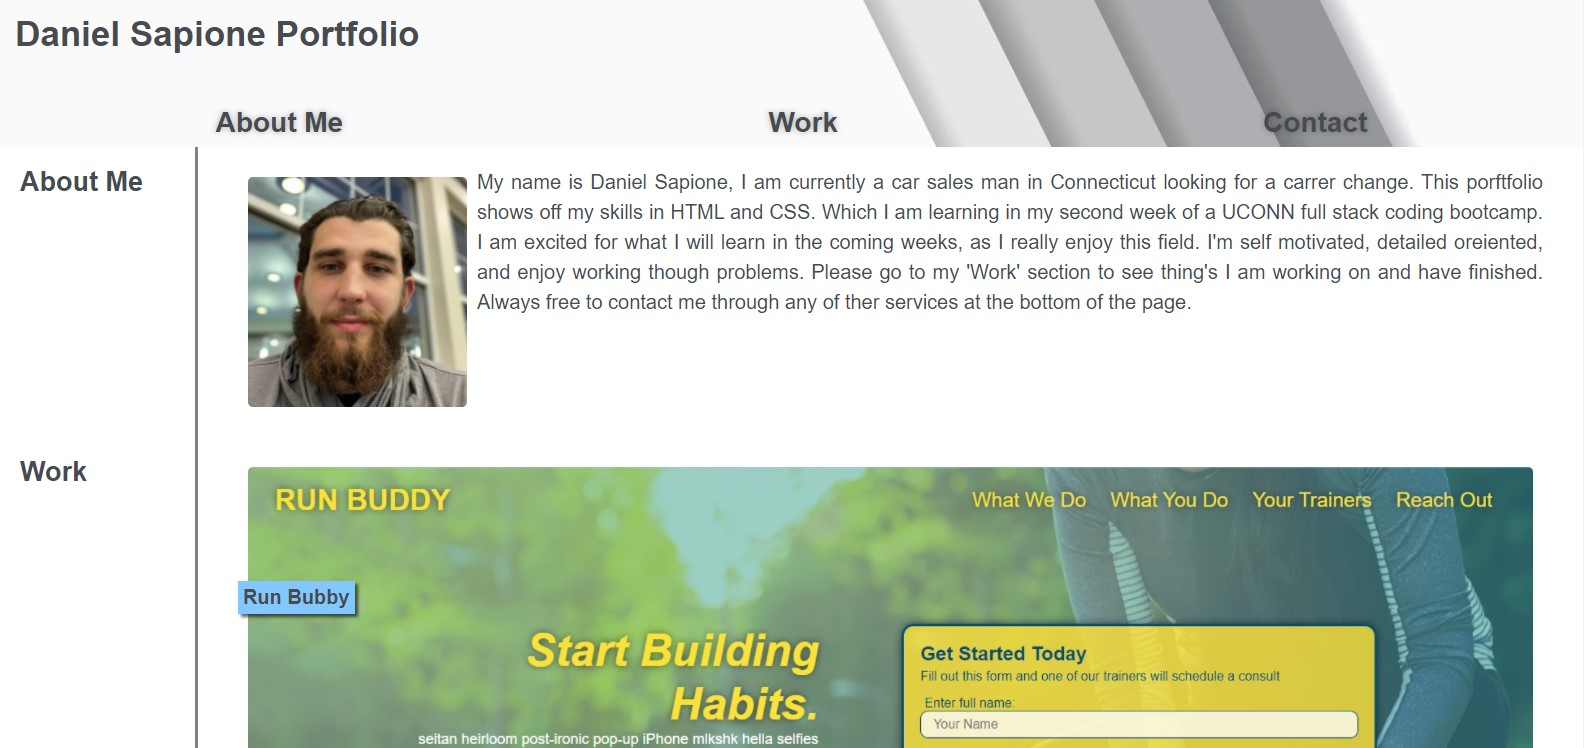
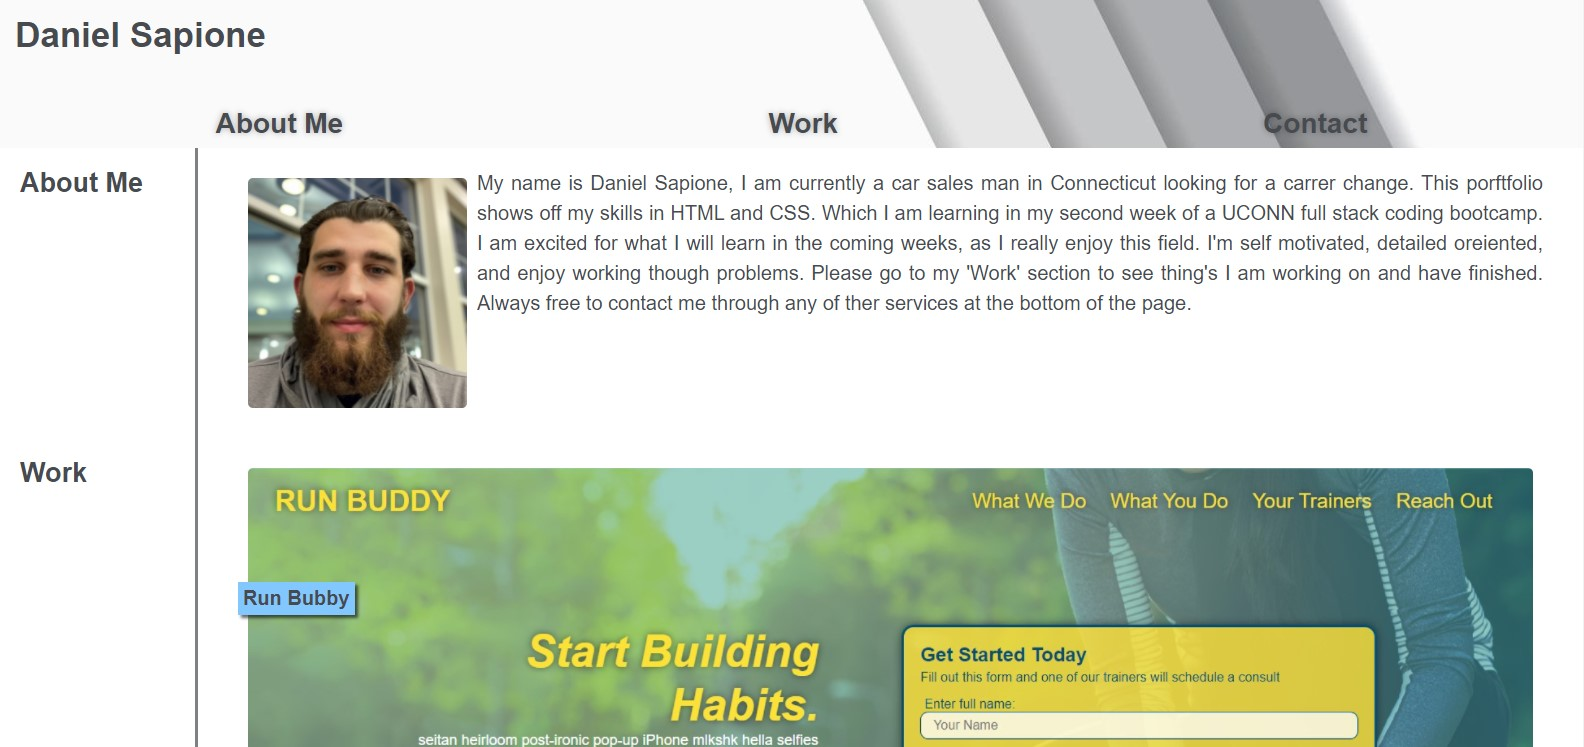
title changed

diff --git a/assets/css/style.css b/assets/css/style.css
@@ -218,9 +218,6 @@ address a:hover {
 	}
 }
 
-@media screen and (max-width: 905px) {
-}
-
 @media screen and (max-width: 600px) {
 	header h1 {
 		font-size: 30px;

diff --git a/index.html b/index.html
@@ -14,7 +14,7 @@
 
 	<header >
 		<h1>
-			<a>Daniel Sapione Portfolio</a>
+			<a>Daniel Sapione</a>
 		</h1>
 	</header>
 	
